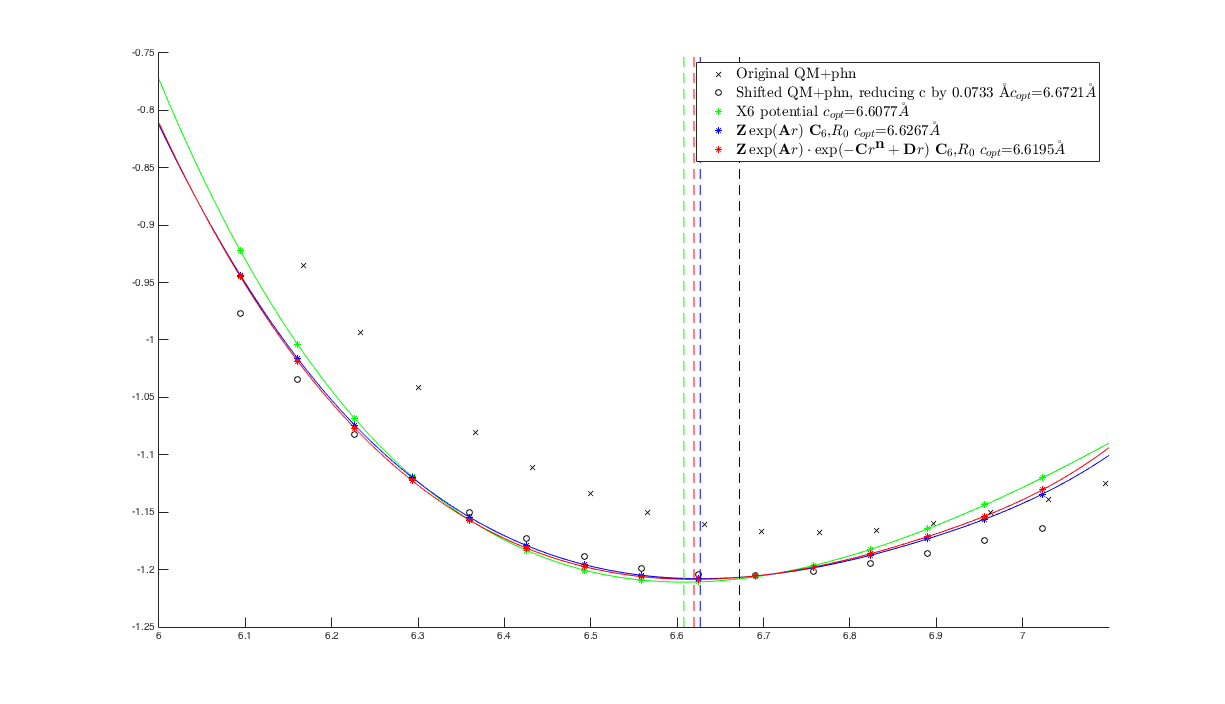
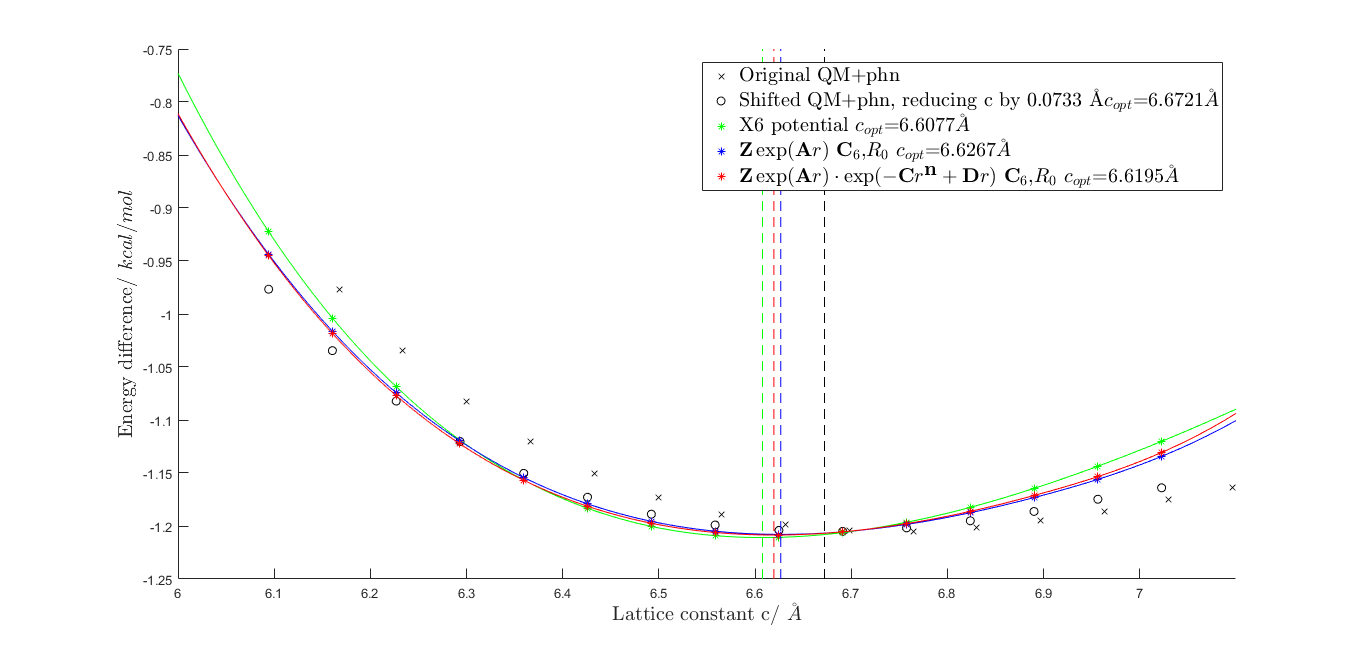
add label to shift plot

diff --git a/data/shift.m b/data/shift.m
@@ -53,3 +53,12 @@ h = legend([plot_org,...
 
 set(h,'interpreter','latex');
 set(h, 'fontsize', 15);
+
+h = ylabel('Energy difference/ $kcal/ mol$');
+set(h,'interpreter','latex');
+set(h, 'fontsize', 15);
+h = xlabel('Lattice constant c/ $\AA$');
+set(h,'interpreter','latex');
+set(h, 'fontsize', 15);
+
+
